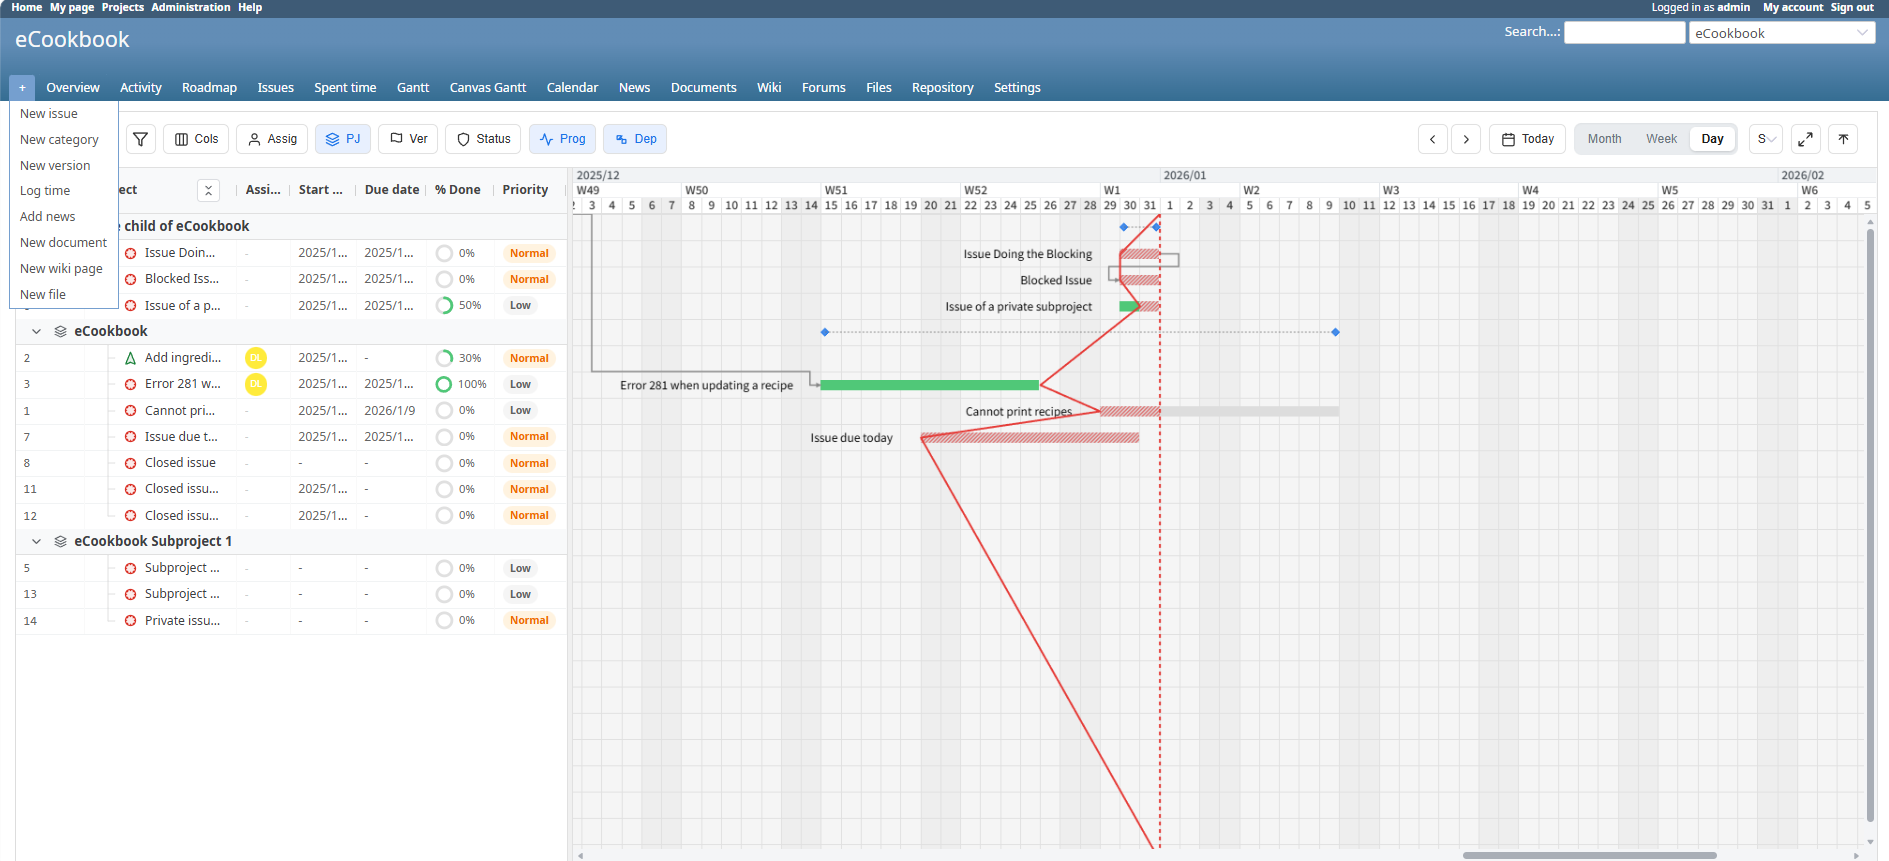
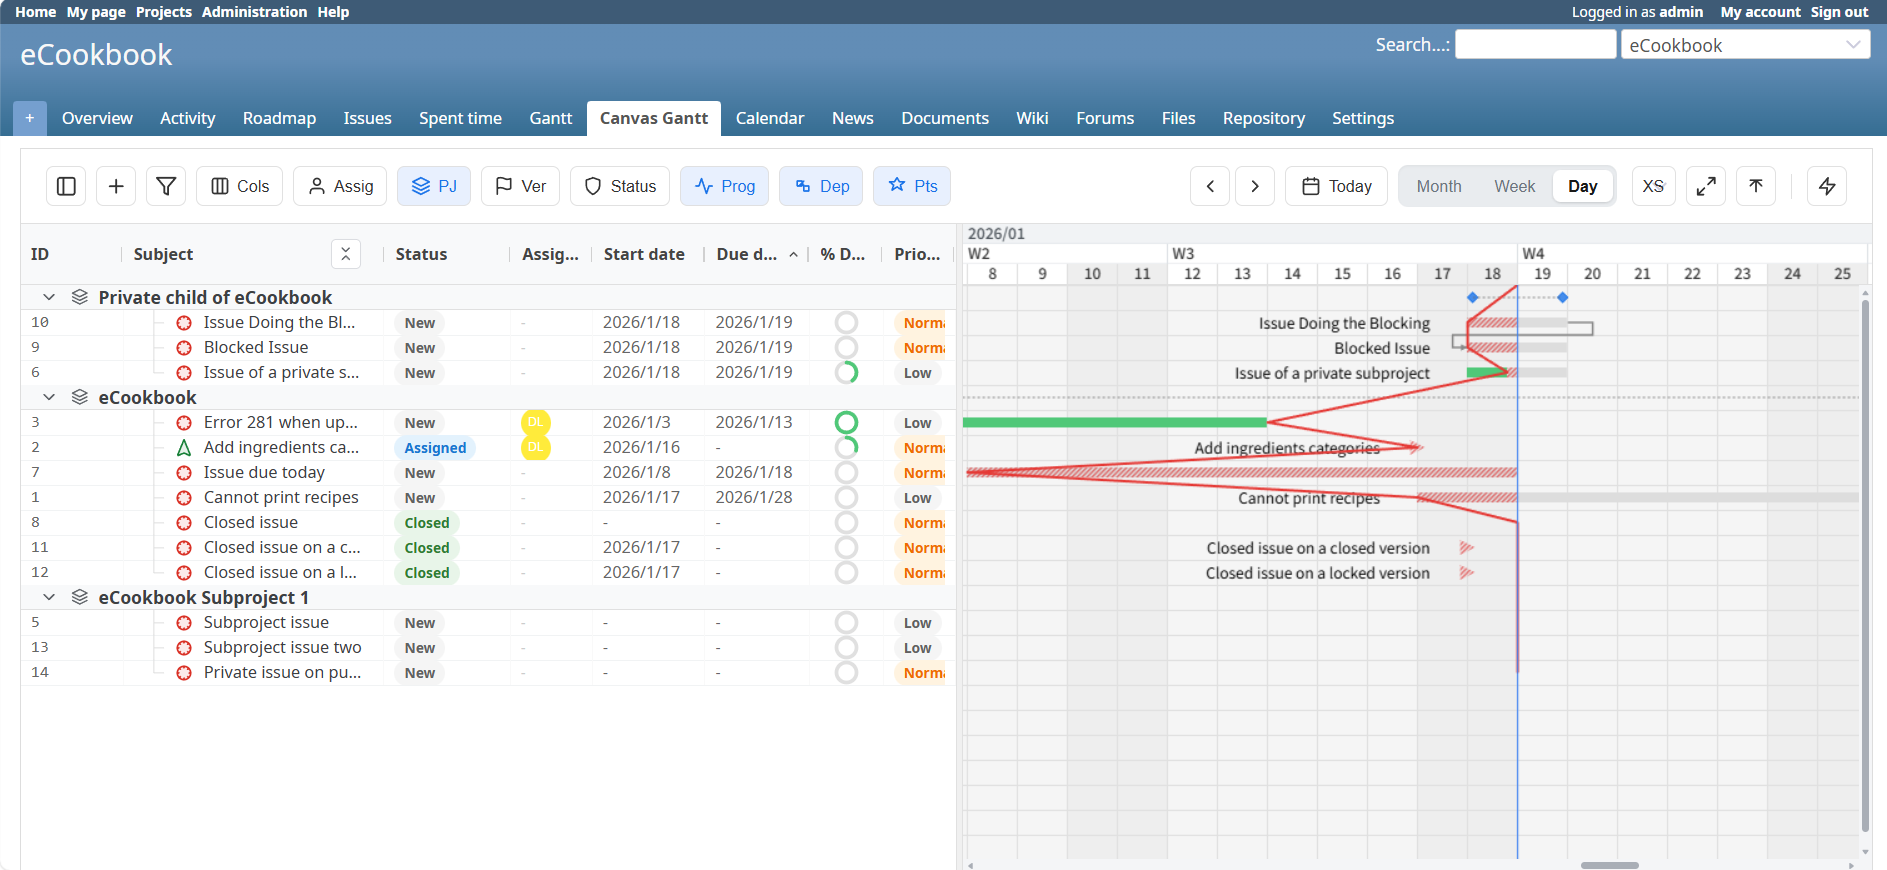
docs: READMEと日本語READMEを更新し、設定、ビルド、開発サーバーの詳細を追加、スクリーンショットを更新

diff --git a/README_ja.md b/README_ja.md
@@ -1,78 +1,92 @@
-# Redmine Canvas Gantt Plugin
+<div align="center">
 
-React、TypeScript、そしてHTML5 Canvas APIで構築された、Redmine向けの高性能ガントチャートプラグインです。
+# Redmine Canvas Gantt
 
-## 主な機能
+Redmine向けの高性能 Canvas ガントチャートプラグイン。
 
-*   **高いパフォーマンス**: HTML5 Canvasを使用し、大量のチケットデータもスムーズに描画します。
-*   **直感的な操作**: ドラッグ＆ドロップによるスケジュールの変更や、依存関係の作成が可能です。
-*   **カスタマイズ可能な列**: プロジェクト、トラッカー、ステータス、優先度、作成者、カテゴリ、ターゲットバージョンなど、Redmineの標準フィールドをサイドパネルに自由に表示できます。
-*   **高度なソート**: 列ヘッダーをクリックすることで、チケットを並び替えできます。文字列、数値、およびRedmine内部の表示順（ステータスや優先度）に基づいたソートに対応しています。
-*   **プロジェクト・バージョンの集約**: プロジェクトやバージョンごとのフィルタリング、階層表示の切り替えなどを1つのメニューに統合しています。フィルタで選択されたプロジェクトは、該当するチケットがない場合でも必ず表示されるようになりました。
-*   **スマートなプロジェクト集約**: プロジェクトを跨ぐ親子関係がある場合でも、各チケットを適切なプロジェクトヘッダーの下に配置して表示します。
-*   **インライン編集**: 件名、ステータス、優先度、日付、カテゴリ、プロジェクト、工数などをサイドパネルから直接編集できます。権限や親タスクによる制約を考慮した安全なガード機能を備えています。
-*   **整理されたサイドバー**: 件名の横に表示されていた不要なプロジェクト・バージョン名を削除し、階層構造による文脈のみに頼ることで画面をすっきりさせました。
-*   **データの視認性向上**: ステータスや優先度をカラーバッジで表示。未設定の項目にはハイフン（`-`）を表示し、クリック領域を確保することで編集しやすさを向上させています。
-*   **スマートな依存関係**: 直角に折れ曲がるマンハッタンパスを用いて、依存関係を視覚的に分かりやすく描画します。
-*   **ズームレベル**: 月・週・日の3段階の表示切り替えに対応しています。
-*   **柔軟なUI設定**: 行の高さ（20px〜52px）の調整や、列幅の保存が可能です。
-*   **テーマ対応**: Redmineの各種テーマと調和するデザインを採用しています。
+[![License](https://img.shields.io/github/license/tiohsa/redmine_canvas_gantt)](LICENSE.md)
+[![Redmine](https://img.shields.io/badge/Redmine-6.x-red)](#動作環境)
+[![Ruby](https://img.shields.io/badge/Ruby-3.x-cc342d)](#動作環境)
+[![Node.js](https://img.shields.io/badge/Node.js-18%2B-339933)](#動作環境)
 
-![alt text](./images/gantt.png)
+[English README](README.md) · [Issues](https://github.com/tiohsa/redmine_canvas_gantt/issues)
 
+</div>
+
+---
+
+## 概要
+
+Redmine Canvas Gantt は、HTML5 Canvas を活用して高速にタイムラインを描画し、サイドバーからの直接編集も可能にしたガントチャートです。大量チケットを扱うプロジェクトでも、滑らかな操作感と高い視認性を提供します。
+
+### 主な特長
+
+- **高パフォーマンス**: Canvas 描画により、大規模データでもスクロールやズームが軽快です。
+- **直感的なスケジューリング**: ドラッグで移動・期間変更、端点ドラッグで依存関係を作成できます。
+- **リッチなサイドバー**: 件名、ステータス、優先度、日付、トラッカー、プロジェクトなどをインライン編集。
+- **スマートな集約表示**: プロジェクトを跨ぐ親子関係でも正しい階層で表示します。
+- **柔軟なレイアウト**: 行高の調整、列幅の保存、表示列のカスタマイズに対応。
+- **テーマ対応**: Redmine のテーマと自然に馴染みます。
+
+## スクリーンショット
+
+![Canvas Gantt](./images/gantt.png)
 ## 動作環境
 
-*   **Redmine**: 6.x
-*   **Ruby**: 3.x
-*   **Node.js**: 18以上（フロントエンドのビルドに必要）
-*   **pnpm**:（フロントエンドのパッケージ管理に必要）
+- **Redmine**: 6.x
+- **Ruby**: 3.x
+- **Node.js**: 18以上（フロントエンドビルド用）
+- **pnpm**: フロントエンド依存管理に必要
 
-## インストール方法
+## インストール
 
-1.  **リポジトリのクローン**
-    Redmineの `plugins` ディレクトリへ移動し、リポジトリをクローンします：
-    ```bash
-    cd /path/to/redmine/plugins
-    git clone https://github.com/your-repo/redmine_canvas_gantt.git
-    ```
+1. **plugins 配下にクローン**
+   ```bash
+   cd /path/to/redmine/plugins
+   git clone https://github.com/tiohsa/redmine_canvas_gantt.git
+   ```
 
-2.  **フロントエンドのビルド**
-    フロントエンドはReact SPAとして構築されており、ビルドが必要です：
-    ```bash
-    cd redmine_canvas_gantt/spa
-    pnpm install
-    pnpm run build
-    ```
+2. **フロントエンドのビルド**
+   ```bash
+   cd redmine_canvas_gantt/spa
+   pnpm install
+   pnpm run build
+   ```
 
-3.  **マイグレーションの実行**
-    Redmineのプラグインマイグレーションを実行します：
-    ```bash
-    cd /path/to/redmine
-    bundle exec rake redmine:plugins:migrate
-    ```
+3. **プラグインマイグレーション**
+   ```bash
+   cd /path/to/redmine
+   bundle exec rake redmine:plugins:migrate
+   ```
 
-4.  **Redmineの再起動**
-    Redmineを稼働させているサーバー（Puma、Passenger等）を再起動してください。
+4. **Redmine の再起動**
+   Puma/Passenger などのアプリサーバーを再起動してください。
 
 ## 使い方
 
-1.  **モジュールの有効化**
-    *   各プロジェクトの「設定」 > 「モジュール」を開きます。
-    *   **Canvas Gantt** にチェックを入れて保存します。
+1. **モジュールを有効化**
+   - プロジェクトの **設定** → **モジュール** で **Canvas Gantt** を有効化。
 
-2.  **権限の設定**
-    *   「管理」 > 「ロールと権限」を開きます。
-    *   対象のロールに対して「View canvas gantt」および「Edit canvas gantt」の権限を付与します。
+2. **権限の付与**
+   - **管理** → **ロールと権限** から **View canvas gantt** と **Edit canvas gantt** を設定。
 
-3.  **チャートの表示**
-    *   プロジェクトメニューの「Canvas Gantt」タブをクリックします。
-    *   マウスホイール（Ctrl/Cmd押下）やツールバーのボタンでズームできます。
-    *   チケットの端をドラッグすると期間を変更、中央をドラッグすると移動できます。
-    *   チケットの末端にあるドットを他のチケットへドラッグすると、依存関係を作成できます。
+3. **チャートを開く**
+   - プロジェクトメニューの **Canvas Gantt** をクリック。
 
-## 開発について
+4. **基本操作**
+   - Ctrl/Cmd + ホイール、またはツールバーでズーム。
+   - チケットをドラッグして移動、端をドラッグして期間変更。
+   - 端点のドットからドラッグして依存関係を作成。
 
-フロントエンドのソースコードは `plugins/redmine_canvas_gantt/spa` にあります。
+## 設定
+
+- **インライン編集項目**: **管理 → プラグイン → Canvas Gantt → 設定** で編集可能項目を切り替え。
+- **行の高さ**: 同じ画面でデフォルト行高を設定。
+- **Vite dev server**: 開発時は **Use Vite dev server** を有効化し、`http://localhost:5173` から読み込み。
+
+## 開発
+
+フロントエンドは `plugins/redmine_canvas_gantt/spa` にあります。
 
 ### セットアップ
 
@@ -81,15 +95,24 @@ cd plugins/redmine_canvas_gantt/spa
 pnpm install
 ```
 
-### 開発用サーバーの起動
+### Vite dev server（ホットリロード）
 
-```bash
-pnpm run dev
-```
+1. Dev サーバー起動:
+   ```bash
+   pnpm run dev
+   ```
+2. Redmine の設定画面で **Use Vite dev server** を有効化。
 
-**注意**: スタンドアロンモードで動作させるには、`main.tsx` 等で `window.RedmineCanvasGantt` をモックし、APIエンドポイントやトークンを供給する必要があります。
+### アーキテクチャ概要
+
+- **状態管理**: Zustand ストア（`TaskStore`, `UIStore`）。
+- **Canvas 描画**: `TaskRenderer`, `OverlayRenderer`, `BackgroundRenderer`。
+- **スケジューリング**: `TaskLogicService` で制約と日付伝播を管理。
+
+## ビルド成果物と配信
+
+`pnpm run build` の成果物は `plugins/redmine_canvas_gantt/assets/build` に出力されます。起動時に `public/plugin_assets/redmine_canvas_gantt/build` へリンクされ、Redmine から配信されます。
 
 ## ライセンス
 
-MIT License
-Copyright (c) 2024 tiohsa
+MIT License. 詳細は [LICENSE.md](LICENSE.md) を参照してください。

diff --git a/README.md b/README.md
@@ -1,78 +1,94 @@
-# Redmine Canvas Gantt Plugin
+<div align="center">
 
-A high-performance Gantt chart plugin for Redmine, built with React, TypeScript, and the HTML5 Canvas API.
+# Redmine Canvas Gantt
 
-## Features
+High-performance Canvas-based Gantt chart plugin for Redmine.
 
-*   **High Performance**: Efficiently renders large datasets using HTML5 Canvas.
-*   **Smooth Interaction**: Drag & drop tasks for rescheduling, dependency creation.
-*   **Customizable Columns**: Choose from standard Redmine fields (Project, Tracker, Status, Priority, Author, Category, etc.) to display in the side panel.
-*   **Smart Sorting**: Sort tasks by clicking column headers. Supports alphabetical, numeric, and logical (Redmine position-based) sorting.
-*   **Project & Version Management**: Consolidated filter and display toggles for projects and versions. Ensures all selected projects are visible, even if they have no tasks matching active filters.
-*   **Smart Project Grouping**: Correctly handles cross-project parent-child relationships, ensuring tasks always appear under their respective project headers when grouping is active.
-*   **Inline Editing**: Edit subject, status, priority, dates, category, project, tracker, version, and estimated hours directly in the sidebar. Features permission-aware safeguards and contextual dropdowns.
-*   **Clutter-Free Sidebar**: Simplified task display by removing redundant project/version text next to subjects, relying on the hierarchical grouping for context.
-*   **Enhanced Data Visibility**: Color-coded badges for status and priority. Automatic placeholders (`-`) and click-targets for unset fields to improve readability and editability.
-*   **Manhattan-style Dependencies**: Visualizes dependencies with smart Manhattan-style (orthogonal) paths.
-*   **Zoom Levels**: Supports Month, Week, and Day views.
-*   **Customizable UI**: Adjustable task row height (20px to 52px) and persistent column widths. Customizable column display and grouping.
-*   **Theme Support**: Integrates with Redmine's theming.
+[![License](https://img.shields.io/github/license/tiohsa/redmine_canvas_gantt)](LICENSE.md)
+[![Redmine](https://img.shields.io/badge/Redmine-6.x-red)](#requirements)
+[![Ruby](https://img.shields.io/badge/Ruby-3.x-cc342d)](#requirements)
+[![Node.js](https://img.shields.io/badge/Node.js-18%2B-339933)](#requirements)
 
-![alt text](./images/gantt.png)
+[日本語 README](README_ja.md) · [Issues](https://github.com/tiohsa/redmine_canvas_gantt/issues)
+
+</div>
+
+---
+
+## Overview
+
+Redmine Canvas Gantt delivers a fast, interactive Gantt experience by rendering the timeline on HTML5 Canvas and keeping the sidebar fully editable. It is designed for large projects where Redmine's default Gantt slows down or becomes hard to read.
+
+### Highlights
+
+- **High performance**: Canvas rendering keeps scrolling and zooming smooth even with large datasets.
+- **Interactive scheduling**: Drag tasks to move or resize; drag endpoints to create dependencies.
+- **Rich sidebar**: Inline editing for subject, status, priority, dates, tracker, project, version, and more.
+- **Smart grouping**: Correctly preserves cross-project parent/child relationships.
+- **Flexible layout**: Adjustable row height, persistent column widths, and configurable columns.
+- **Theme-friendly**: Blends into existing Redmine themes.
+
+## Screenshot
+
+![Canvas Gantt](./images/gantt.png)
 
 ## Requirements
 
-*   **Redmine**: 6.x
-*   **Ruby**: 3.x
-*   **Node.js**: 18+ (required for building the frontend)
-*   **pnpm**: (required for frontend package management)
+- **Redmine**: 6.x
+- **Ruby**: 3.x
+- **Node.js**: 18+ (frontend build)
+- **pnpm**: required for frontend dependencies
 
 ## Installation
 
-1.  **Clone the Repository**
-    Navigate to your Redmine `plugins` directory and clone the repository:
-    ```bash
-    cd /path/to/redmine/plugins
-    git clone https://github.com/your-repo/redmine_canvas_gantt.git
-    ```
+1. **Clone into Redmine plugins**
+   ```bash
+   cd /path/to/redmine/plugins
+   git clone https://github.com/tiohsa/redmine_canvas_gantt.git
+   ```
 
-2.  **Build the Frontend**
-    The frontend is a React SPA that needs to be built before use.
-    ```bash
-    cd redmine_canvas_gantt/spa
-    pnpm install
-    pnpm run build
-    ```
+2. **Build the frontend**
+   ```bash
+   cd redmine_canvas_gantt/spa
+   pnpm install
+   pnpm run build
+   ```
 
-3.  **Run Migrations**
-    Run the Redmine plugin migration command.
-    ```bash
-    cd /path/to/redmine
-    bundle exec rake redmine:plugins:migrate
-    ```
+3. **Run plugin migrations**
+   ```bash
+   cd /path/to/redmine
+   bundle exec rake redmine:plugins:migrate
+   ```
 
-4.  **Restart Redmine**
-    Restart your Redmine application server (e.g., Puma, Passenger).
+4. **Restart Redmine**
+   Restart your app server (Puma, Passenger, etc.).
 
 ## Usage
 
-1.  **Enable the Module**
-    *   Go to your Project's **Settings** > **Modules**.
-    *   Check **Canvas Gantt** and save.
+1. **Enable the module**
+   - Project **Settings** → **Modules** → enable **Canvas Gantt**.
 
-2.  **Configure Permissions**
-    *   Go to **Administration** > **Roles and permissions**.
-    *   Grant **View canvas gantt** and **Edit canvas gantt** permissions to the appropriate roles.
+2. **Grant permissions**
+   - **Administration** → **Roles and permissions**.
+   - Enable **View canvas gantt** and **Edit canvas gantt** as needed.
 
-3.  **Access the Chart**
-    *   Click the **Canvas Gantt** tab in the project menu.
-    *   Use the mouse wheel (with Ctrl/Cmd) or toolbar buttons to zoom.
-    *   Drag tasks to move them. Drag the ends of tasks to resize.
-    *   Drag from the dot at the end of a task to another task to create a dependency.
+3. **Open the chart**
+   - Click **Canvas Gantt** in the project menu.
+
+4. **Interact**
+   - Zoom with Ctrl/Cmd + mouse wheel or toolbar buttons.
+   - Drag tasks to move; drag edges to resize.
+   - Drag from the endpoint dot to create dependencies.
+
+## Configuration
+
+- **Inline quick edit**: Toggle which fields are editable in **Administration → Plugins → Canvas Gantt → Configure**.
+- **Row height**: Set the default row height in the same settings page.
+- **Vite dev server**: Enable **Use Vite dev server** to load assets from `http://localhost:5173` during development.
 
 ## Development
 
-The frontend code is located in `plugins/redmine_canvas_gantt/spa`.
+The frontend lives in `plugins/redmine_canvas_gantt/spa`.
 
 ### Setup
 
@@ -81,42 +97,24 @@ cd plugins/redmine_canvas_gantt/spa
 pnpm install
 ```
 
-### Development Server
+### Vite dev server (hot reload)
 
-You can run the standalone frontend development server:
+1. Start the dev server:
+   ```bash
+   pnpm run dev
+   ```
+2. In Redmine, enable **Use Vite dev server** in the plugin settings.
 
-```bash
-pnpm run dev
-```
+### Architecture at a glance
 
-**Note**: To run in standalone mode, you may need to mock the `window.RedmineCanvasGantt` configuration object in `main.tsx` or `index.html` to provide necessary API endpoints and tokens.
+- **State**: Zustand stores (`TaskStore`, `UIStore`).
+- **Canvas rendering**: `TaskRenderer`, `OverlayRenderer`, `BackgroundRenderer`.
+- **Scheduling logic**: `TaskLogicService` for constraints and date propagation.
 
-### Architecture Overview
+## Build Output and Assets
 
-*   **State Management**: Zustand (`TaskStore`, `UIStore`).
-*   **Rendering**: Custom Canvas renderers (`TaskRenderer`, `OverlayRenderer`, `BackgroundRenderer`).
-*   **Logic**: `TaskLogicService` handles constraints and date propagation.
+`pnpm run build` outputs to `plugins/redmine_canvas_gantt/assets/build`. On boot, the plugin links this directory into `public/plugin_assets/redmine_canvas_gantt/build` so Redmine can serve the assets.
 
 ## License
 
-MIT License
-
-Copyright (c) 2024 tiohsa
-
-Permission is hereby granted, free of charge, to any person obtaining a copy
-of this software and associated documentation files (the "Software"), to deal
-in the Software without restriction, including without limitation the rights
-to use, copy, modify, merge, publish, distribute, sublicense, and/or sell
-copies of the Software, and to permit persons to whom the Software is
-furnished to do so, subject to the following conditions:
-
-The above copyright notice and this permission notice shall be included in all
-copies or substantial portions of the Software.
-
-THE SOFTWARE IS PROVIDED "AS IS", WITHOUT WARRANTY OF ANY KIND, EXPRESS OR
-IMPLIED, INCLUDING BUT NOT LIMITED TO THE WARRANTIES OF MERCHANTABILITY,
-FITNESS FOR A PARTICULAR PURPOSE AND NONINFRINGEMENT. IN NO EVENT SHALL THE
-AUTHORS OR COPYRIGHT HOLDERS BE LIABLE FOR ANY CLAIM, DAMAGES OR OTHER
-LIABILITY, WHETHER IN AN ACTION OF CONTRACT, TORT OR OTHERWISE, ARISING FROM,
-OUT OF OR IN CONNECTION WITH THE SOFTWARE OR THE USE OR OTHER DEALINGS IN THE
-SOFTWARE.
+MIT License. See [LICENSE.md](LICENSE.md).
